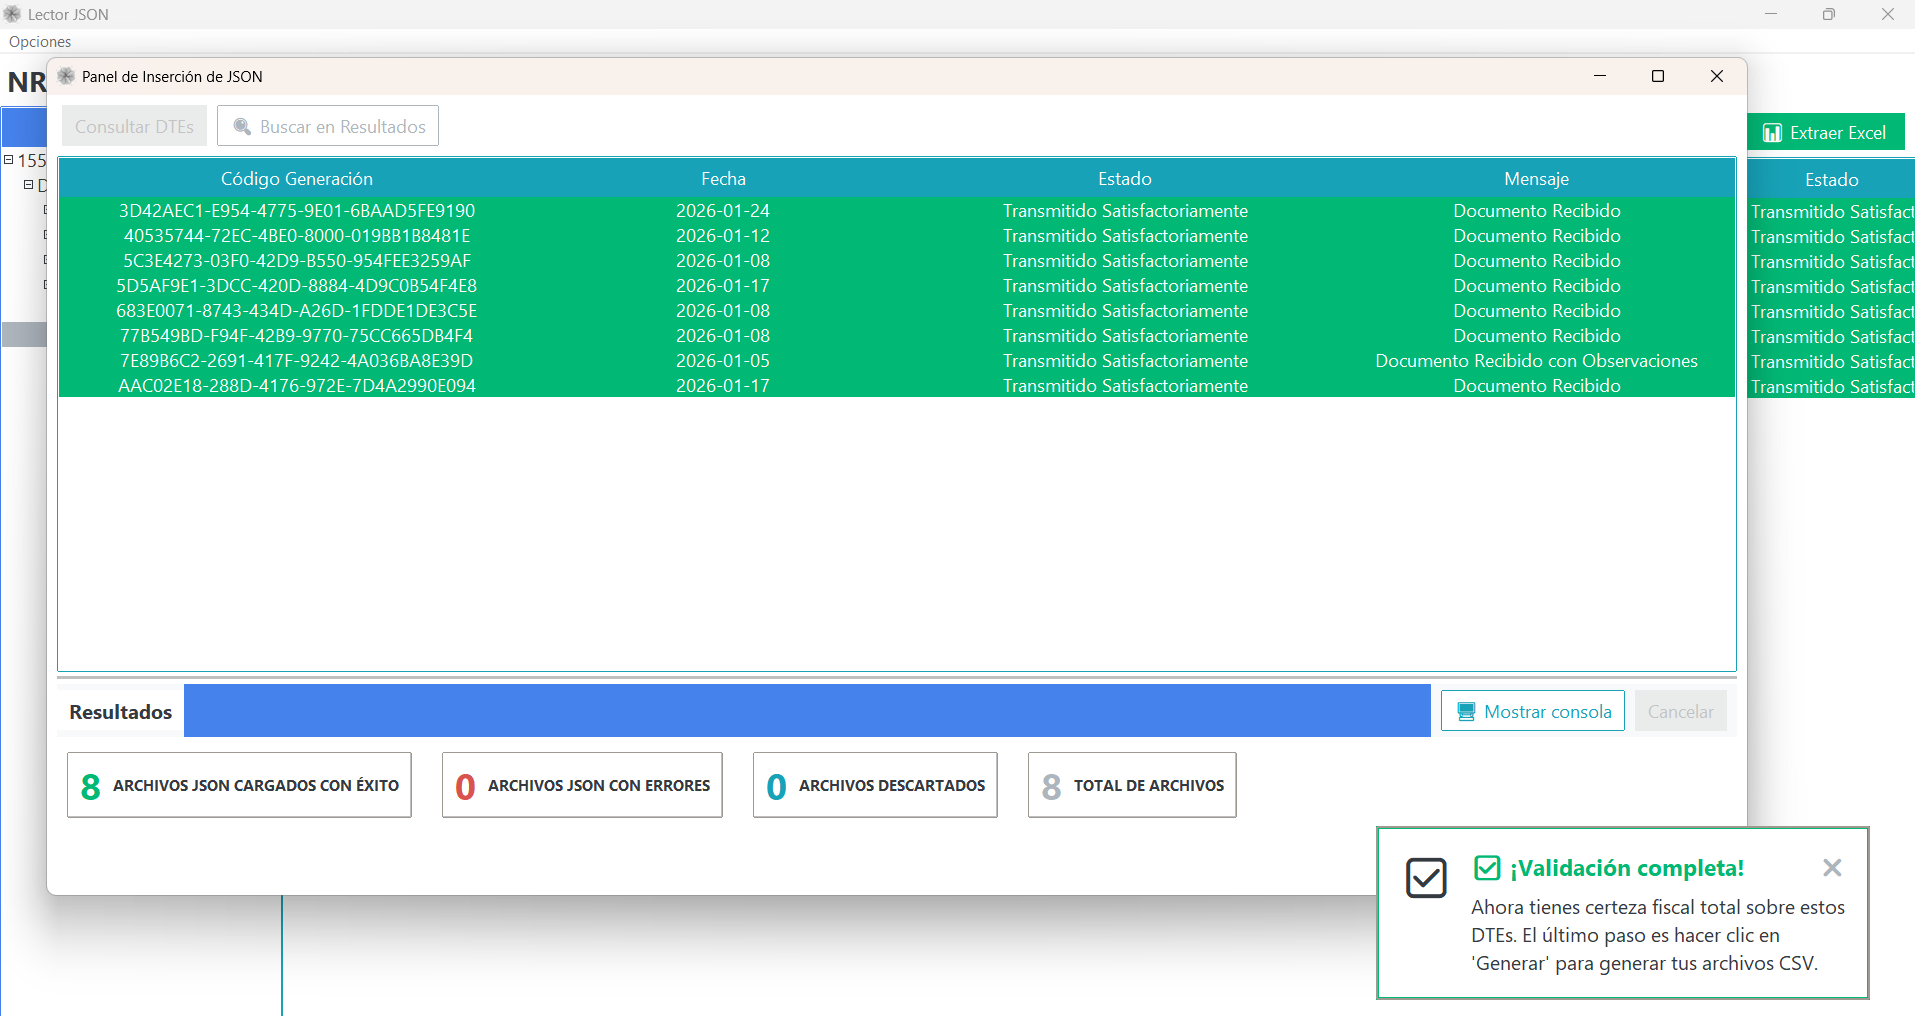
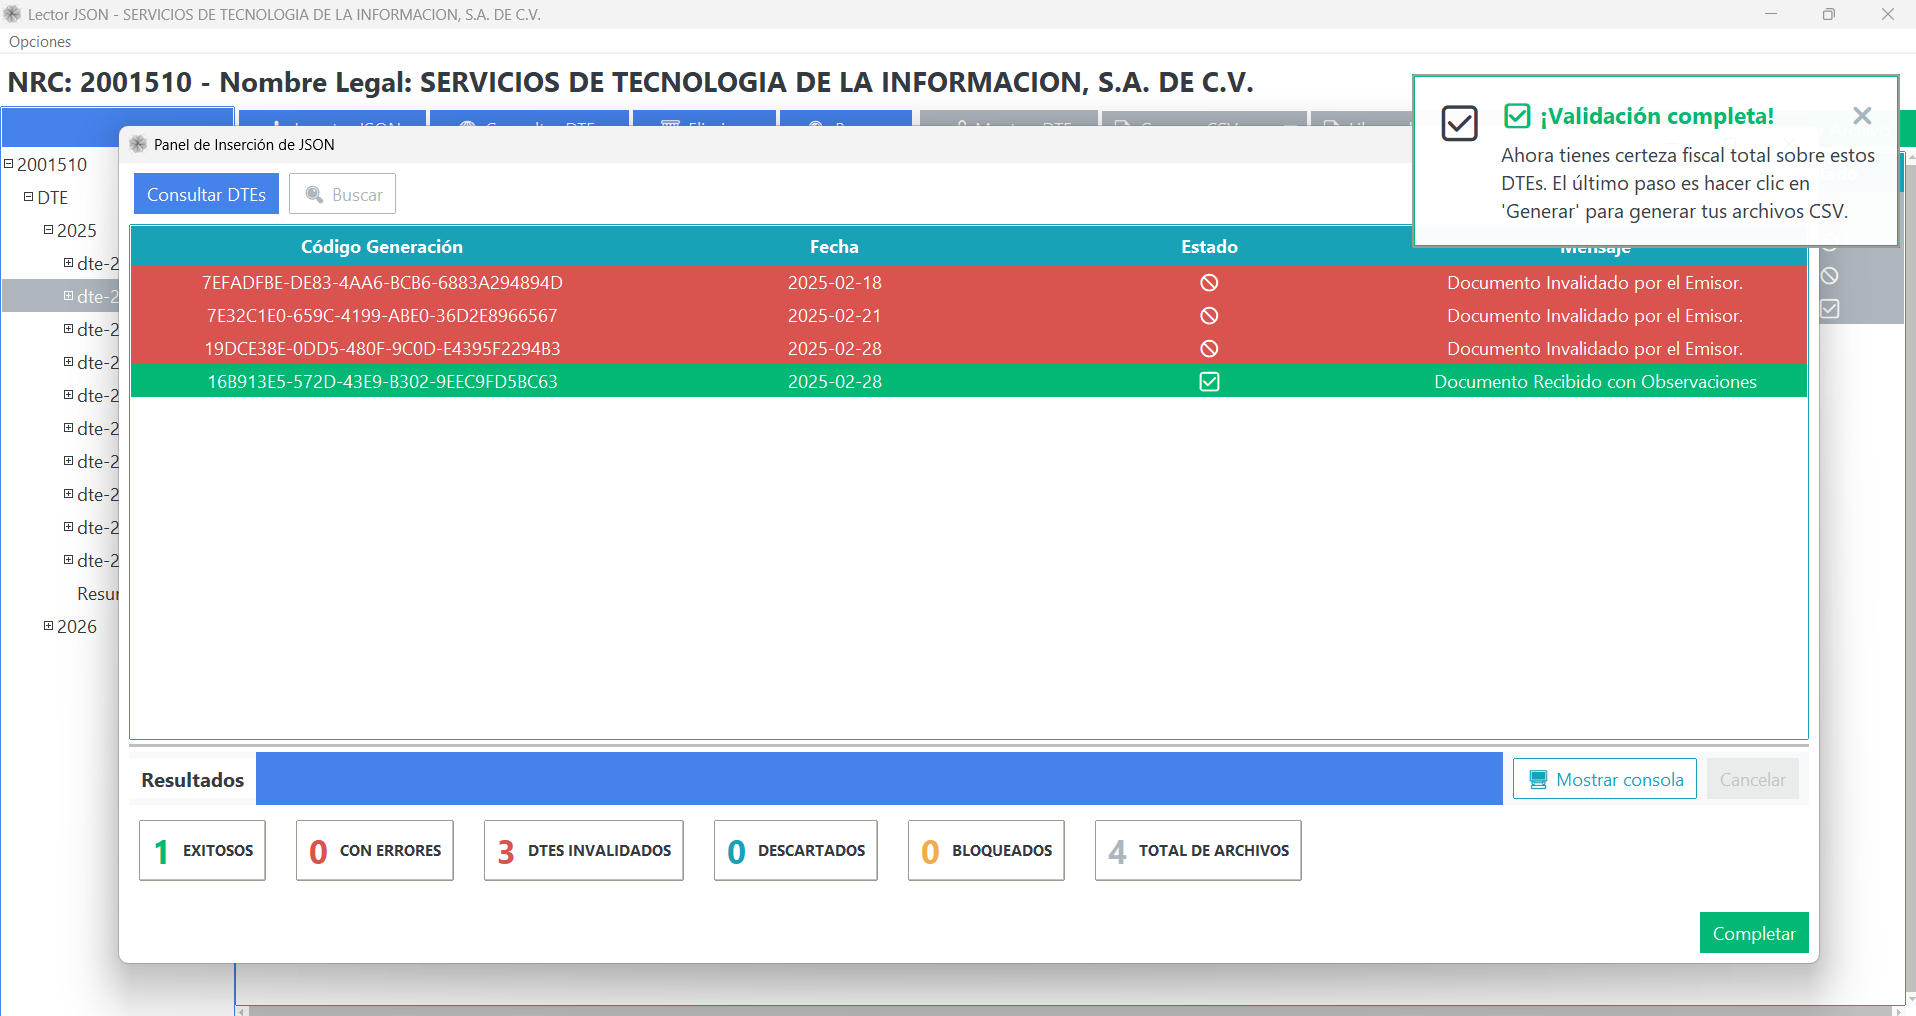
docs: actualización de flujos, guía de soporte con PIN y release notes

diff --git a/docs/novedades/release-notes.md b/docs/novedades/release-notes.md
@@ -15,6 +15,89 @@ En esta página se registran los cambios funcionales, mejoras operativas y nueva
 - **Acciones recomendadas:**
 -->
 
+### **Versión 1.1.4** - 2026-10-05
+
+- **Nuevo:**
+  - **Mover Compras Masivo en Menú de Selección Múltiple**: Posibilidad de seleccionar uno o múltiples DTEs de compras (Comprobante de Crédito Fiscal) y trasladarlos a otro periodo fiscal dentro de la ventana legal de 3 meses permitida por el Código Tributario de El Salvador para deducir compras.
+  - **Control de Ventana Única por Empresa**: Prevención de duplicación de ventanas de una misma empresa; al intentar abrir una empresa que ya está en uso, el sistema enfoca y trae al frente la ventana activa existente.
+  - **Protección contra Eliminación Accidental**: Bloqueo preventivo que impide eliminar una empresa si tiene ventanas abiertas o tareas activas en ejecución.
+
+- **Mejorado:**
+  - **Gestión de Errores en Traslados**: Notificación detallada indicando la cantidad de DTEs trasladados exitosamente y advertencias cuando el periodo fiscal de destino se encuentra bloqueado.
+  - **Validación de Selección Múltiple**: Guardas de seguridad al ejecutar acciones de eliminación con múltiples registros seleccionados en tablas.
+
+- **Corregido:**
+  - Corrección en la persistencia y actualización del listado de DTEs pendientes con eventos de retorno.
+  - Ajuste en la sincronización de etiquetas tras consultas individuales o masivas de DTEs.
+
+- **Impacto Operativo:**
+  - Flexibilidad contable para diferir compras de Crédito Fiscal a periodos fiscales posteriores dentro del plazo legalmente autorizado.
+  - Mayor seguridad operativa al evitar colisiones e inconsistencias de datos por apertura duplicada de ventanas.
+
+---
+
+### **Versión 1.1.3** - 2026-10-02
+
+- **Nuevo:**
+  - **Soporte Avanzado de Factura de Exportación (FEXE 11)**: Tratamiento y categorización inteligente de facturas de exportación en importaciones e internaciones, con actualización del catálogo de países para compatibilidad con códigos de versiones anteriores.
+  - **Ventana de Progreso y Bloqueo Dinámico de Interfaz**: Incorporación de indicador de progreso visual que desactiva temporalmente las acciones durante procesos asíncronos para evitar ejecuciones accidentales.
+  - **Restablecer Tamaño de Columnas**: Opción en el menú contextual de tablas para restaurar instantáneamente el ancho predeterminado de las columnas tras modificaciones manuales.
+
+- **Mejorado:**
+  - **Maquetación Continua en PDF**: Optimización de saltos de página y diseño continuo en PDF para Facturas de Exportación extensas, evitando resúmenes o firmas huérfanas al final del documento.
+  - **Prioridad de Columnas Críticas**: Optimización del ancho y visibilidad preferente para el número de control y código de generación en las tablas.
+
+- **Corregido:**
+  - Corrección en la asignación de campos para tributos e impuestos en DTEs.
+  - Prevención de desbordamientos visuales en diálogos informativos al utilizar fuentes de gran tamaño.
+
+- **Impacto Operativo:**
+  - Conciliación y registro confiable de operaciones de exportación bajo la normativa tributaria vigente.
+  - Experiencia visual estable y mayor control sobre las vistas de datos en tablas extensas.
+
+---
+
+### **Versión 1.1.2** - 2026-09-16
+
+- **Nuevo:**
+  - **Desglose Independiente de NRC y NIT**: Separación explícita de los campos de NRC y NIT en columnas dedicadas tanto en la tabla visual como en las exportaciones a Excel, sustituyendo la columna única anterior de identificación.
+  - **Almacenamiento Local Seguro**: Mecanismo de guardado con archivos temporales y protección ante cortes de energía o cierres imprevistos, previniendo la corrupción de los registros locales.
+
+- **Mejorado:**
+  - **Persistencia de Metadatos de Anexos**: Inicialización y resguardo de datos auxiliares para declaraciones tributarias.
+
+- **Corregido:**
+  - Corrección de anomalías causadas por caracteres nulos o formatos no válidos en archivos JSON importados.
+
+- **Impacto Operativo:**
+  - Identificación inmediata de contribuyentes y simplificación en cruces contables gracias al desglose individual de NRC y NIT.
+  - Máxima fiabilidad en el almacenamiento local de DTEs y registros fiscales.
+
+---
+
+### **Versión 1.1.1** - 2026-09-09
+
+- **Nuevo:**
+  - **Protección y Bloqueo de Periodos Fiscales**: Restricción de acciones modificadoras (inserción, consulta o eliminación) en periodos fiscales cerrados, junto con un diálogo de confirmación interactiva para autorizar su desbloqueo.
+  - **Consulta Inteligente en el Servicio de Hacienda**: Descarte automático en consultas masivas de DTEs que ya fueron validados previamente o que cuentan con evento de invalidación, optimizando el tiempo de respuesta.
+  - **Consulta Selectiva de DTEs**: Posibilidad de seleccionar varios DTEs y consultar su estado en el Ministerio de Hacienda directamente desde el menú contextual.
+  - **Apertura Directa por Doble Clic**: Doble clic sobre cualquier fila de la tabla para visualizar el DTE en modo PDF por defecto.
+  - **Descarga Directa desde Menú Contextual**: Acción para descargar y ubicar el archivo del DTE seleccionado en el equipo.
+
+- **Mejorado:**
+  - **Escalabilidad Visual y Fuentes Adaptativas**: Ajuste dinámico de diálogos, tablas y botones para tamaños de letra grandes (hasta 20 puntos) sin truncamiento de información.
+  - **Diseño de Libros de IVA en Excel**: Formato y anchos de columna adaptados para evitar saltos del código de generación, con totalizadores dinámicos optimizados.
+  - **Independencia del Entorno**: Estandarización de textos y mensajes operativos con independencia del idioma o configuración regional del sistema operativo.
+  - **Compatibilidad con macOS**: Optimización en la navegación entre periodos fiscales y centrado geométrico de diálogos modales.
+
+- **Corregido:**
+  - Corrección en la idempotencia del estado de bloqueo de periodo frente a consultas de estado.
+  - Prevención de excepciones en tablas al interactuar con filas deseleccionadas o selecciones vacías.
+
+- **Impacto Operativo:**
+  - Blindaje de la información contable contra modificaciones accidentales en periodos ya declarados.
+  - Consultas tributarias ágiles y eficientes sin saturar el servicio de consulta del Ministerio de Hacienda.
+
 ---
 
 ### **Versión 1.1.0.0**

diff --git a/docs/flujos/lector-json.md b/docs/flujos/lector-json.md
@@ -22,6 +22,23 @@ El panel izquierdo organiza automáticamente tus documentos por **Año**, **Mes*
 
 ![Separación por año, mes y categorías](../assets/img/flujos/lector-json-01-separacion-anio-mes-categorias.png "Navegación por año, mes y categorías"){ align=center }
 
+#### Protección y Bloqueo de Periodos Fiscales
+PyConta permite proteger los periodos fiscales que ya han sido declarados o cerrados contablemente para prevenir modificaciones accidentales:
+
+- **Indicador Visual de Bloqueo**: Los periodos protegidos se identifican en el árbol lateral con el icono de un candado cerrado, indicando que sus registros se encuentran blindados.
+- **Restricción de Acciones Modificadoras**: En un periodo bloqueado no se permite insertar nuevos DTEs, eliminar registros existentes ni realizar consultas que alteren el estado tributario de los documentos.
+- **Desbloqueo Supervisado**: Si necesitas realizar un ajuste justificado, el sistema solicita una confirmación interactiva para advertirte del riesgo antes de liberar el periodo.
+
+=== "Periodos Bloqueados en el Árbol"
+    Visualización de los meses protegidos con candado en el panel lateral:
+
+    ![Periodos bloqueados en el panel lateral](../assets/img/flujos/lector-json-14-periodos-bloqueados.png "Identificación de periodos fiscales bloqueados en el panel lateral"){ align=center }
+
+=== "Advertencia de Bloqueo"
+    Mensaje preventivo desplegado ante cualquier intento de modificación sobre un periodo cerrado:
+
+    ![Advertencia de periodo bloqueado](../assets/img/flujos/periodo-bloqueado-advertencia.png "Advertencia de seguridad al intentar operar sobre un periodo fiscal bloqueado"){ align=center }
+
 ---
 
 ### 2. Visor Dual de DTEs (PDF y JSON)
@@ -40,17 +57,36 @@ PyConta ofrece una experiencia de visualización cómoda tanto para usuarios con
 
     ![Vista detallada en JSON](../assets/img/flujos/lector-json-06-vista-detallada-modo-json.png "Vista detallada en modo JSON"){ align=center }
 
+#### Desglose Independiente de NRC y NIT
+La tabla de visualización presenta en columnas separadas e independientes el **NRC** (Número de Registro de Contribuyente) y el **NIT** (o DUI en personas naturales), simplificando el cotejo fiscal y agilizando la conciliación frente a los reportes de proveedores y clientes:
+
+![Columnas separadas de NRC y NIT](../assets/img/flujos/lector-json-columnas-nrc-nit.png "Desglose independiente de columnas NRC y NIT en la tabla de DTEs"){ align=center }
+
 ---
 
 ### 3. Menú Contextual (Clic Derecho) y Acciones Rápidas
 Al hacer clic derecho sobre una o varias filas seleccionadas en la tabla, accedes a un menú con herramientas especializadas:
 
-- **Consultar DTE**: Valida en tiempo real el estado del DTE con el servicio de consulta del Ministerio de Hacienda.
+- **Consultar DTE / Consultar DTEs (seleccionados)**: Valida en tiempo real el estado de los documentos ante el servicio de consulta del Ministerio de Hacienda.
 - **Copiar Datos Fiscales**: Copia rápidamente el Código de Generación, Número de Control, Sello de Recepción o NIT del proveedor al portapapeles.
-- **Descargar / Guardar Archivo**: Guarda una copia local del archivo original en la carpeta que elijas.
-- **Mover DTE**: Reclasifica el DTE a otro mes o año (con validación para evitar alterar periodos cerrados).
+- **Descargar Archivo**: Guarda una copia del archivo original del DTE en la ubicación que elijas de tu equipo.
+- **Restablecer Columnas**: Si ajustaste manualmente el ancho de las columnas de la tabla, esta opción restaura instantáneamente la distribución y anchos predeterminados:
+
+![Restablecer tamaño de columnas](../assets/img/flujos/menu-contextual-restablecer-columnas.png "Opción para restablecer columnas en el menú contextual"){ align=center }
+
+- **Mover DTE / Mover DTEs (seleccionados)**: Permite reasignar compras a otro periodo fiscal.
 
 ![Consulta de DTE y acciones](../assets/img/flujos/lector-json-03-consultar-dte-y-acciones.png "Menú de acciones para consultar DTE"){ align=center }
+
+#### Traslado de Compras a Otro Periodo Fiscal
+Esta función está disponible exclusivamente para la categoría de **Compras** (Comprobante de Crédito Fiscal) y responde a la normativa tributaria de El Salvador (Art. 65 del Código Tributario), que faculta a los contribuyentes a deducir el IVA Crédito Fiscal dentro de los **3 meses** siguientes a la fecha de emisión del documento:
+
+1. **Selección Individual o Múltiple**: Puedes seleccionar un solo DTE o utilizar ++shift++ o ++ctrl++ para marcar múltiples compras simultáneamente.
+2. **Cálculo de Periodos Válidos**: Al elegir `Mover DTE`, el sistema calcula automáticamente la ventana legal de 3 meses permitida a partir de la fecha de emisión. En traslados masivos, PyConta calcula el rango común legalmente aplicable a todos los documentos seleccionados.
+3. **Selección de Destino**: Elige el Año y Mes de destino en el diálogo modal. El sistema valida que el periodo seleccionado no sea el periodo actual y que el periodo de destino no se encuentre bloqueado.
+4. **Confirmación del Traslado**: Al confirmar, el sistema traslada los DTEs al periodo seleccionado y los retira de la vista del periodo actual, notificando el resultado exitoso en pantalla.
+
+![Mover compras a otro periodo](../assets/img/flujos/mover-compras-periodo-modal.png "Ventana modal para reasignar compras a otro periodo fiscal"){ align=center }
 
 ---
 

diff --git a/docs/suscripcion-y-soporte/solicitar-soporte-con-pin.md b/docs/suscripcion-y-soporte/solicitar-soporte-con-pin.md
@@ -1,16 +1,63 @@
-# Soporte con PIN
+---
+description: Guía detallada para solicitar soporte técnico oficial mediante la generación de PIN en el portal de membresía de ContaPortable.
+---
 
-## Objetivo
-Solicitar soporte tecnico premium siguiendo el flujo oficial.
+# **Soporte con PIN**
 
-## Requisitos para soporte
-- Usuario registrado con correo de compra.
-- PIN de soporte generado.
-- Captura de pantalla y descripcion del error.
+El servicio de soporte técnico para usuarios con membresía activa se gestiona de forma centralizada a través del portal de clientes de **ContaPortable**. Este mecanismo garantiza una atención ordenada y prioritaria mediante la emisión de un **PIN de soporte técnico** único para cada consulta o incidencia.
 
-## Flujo de atencion
-1. Reporte inicial con evidencia.
-2. Guia de accion enviada por soporte.
-3. Sesion remota (Zoom, Google Meet o AnyDesk) si es necesario.
+---
 
-Correo de contacto: soporte@contaportable.com
+## **Requisitos Previos**
+
+Para poder generar una solicitud de soporte técnico mediante PIN, asegúrate de cumplir con los siguientes requisitos:
+
+- **Membresía activa:** Contar con una suscripción o membresía vigente vinculada a tu cuenta o correo de compra.
+- **Acceso al portal:** Disponer de credenciales activas para iniciar sesión en la plataforma VIP.
+- **Detalle de la incidencia:** Tener claro el sistema con problema, asunto, descripción puntual del error y capturas de pantalla o evidencias preparadas.
+- **Herramienta de conexión remota:** Si tu caso requiere intervención directa de un técnico, ten instalado previamente [AnyDesk](https://anydesk.com/es/downloads).
+
+---
+
+## **Horarios de Atención**
+
+El equipo de soporte técnico brinda atención en los siguientes horarios:
+
+- **Lunes a viernes:** 8:00 – 18:00
+- **Sábados:** 8:00 – 12:00
+
+---
+
+## **Acceso al Centro de Soporte Técnico**
+
+Para iniciar tu solicitud, sigue estos pasos:
+
+1. Ingresa a la plataforma e inicia sesión con tu usuario y contraseña:
+   [Membresía | Home](https://www.contaportable.com/vip/public/home)
+2. En la barra de navegación superior, haz clic en la opción **Soporte Técnico** o accede directamente a:
+   [Membresía | Soporte Técnico](https://www.contaportable.com/vip/public/membresia/soporteTecnico)
+3. Sigue las indicaciones del asistente en la página para completar el formulario, generar tu PIN y remitir la solicitud por el canal de tu preferencia (WhatsApp o correo electrónico).
+
+![Centro de soporte técnico](../assets/img/soporte/soporte-con-pin-01-centro-soporte.png "Centro de Soporte Técnico en el portal de ContaPortable"){ align=center }
+
+---
+
+## **Historial y Seguimiento de Casos**
+
+En la parte inferior de la página de soporte dispones de la sección **Últimos casos de soporte**, donde puedes consultar el estado y trazabilidad de tus tickets:
+
+| Campo | Descripción |
+| :--- | :--- |
+| **Fecha de creación** | Momento exacto en que se generó la solicitud en el portal. |
+| **Fecha de expiración** | Límite de vigencia asignado al PIN de soporte generado. |
+| **Tipo de sistema** | Sistema o producto asociado al ticket. |
+| **PIN** | Código numérico asignado a tu caso. |
+| **Caso de soporte** | Identificador o resumen del requerimiento. |
+| **Estado** | Estado actual de atención (Pendiente, En proceso, Finalizado). |
+| **Fecha de evento** | Registro de última actualización o atención brindada. |
+| **Calificación** | Evaluación del servicio recibido tras concluir la asistencia. |
+
+---
+
+!!! info "Canal de Contacto Alternativo"
+    Si presentas inconvenientes para iniciar sesión en el portal o acceder a tu cuenta VIP, puedes contactar al equipo de soporte a través del correo oficial: **soporte@contaportable.com**.

diff --git a/docs/flujos/consulta-hacienda.md b/docs/flujos/consulta-hacienda.md
@@ -37,7 +37,7 @@ Permite validar todos los DTEs de un periodo (Compras o Ventas) en un solo proce
 
 1. Selecciona la categoría del periodo en el árbol lateral.
 2. Presiona el botón de **Consulta Masiva en Hacienda**.
-3. **Optimización Inteligente**: El sistema detecta y omite automáticamente los documentos que ya fueron validados previamente, consultando únicamente los DTEs nuevos o pendientes. Esto agiliza el proceso y optimiza el uso de la conexión.
+3. **Optimización Inteligente y Descarte Preventivo**: El sistema detecta y omite automáticamente los documentos que ya cuentan con validación oficial previa, así como aquellos que registran eventos oficiales de invalidación o eventos de retorno. Esto evita reconsultas innecesarias, acelera significativamente el tiempo de procesamiento y previene la saturación del servicio de consulta del Ministerio de Hacienda.
 
 ![Consulta masiva - inicio](../assets/img/flujos/consulta-hacienda-02-consulta-masiva-inicio.png "Ejecución de consulta masiva por categoría"){ align=center }
 
@@ -48,7 +48,17 @@ Al finalizar el proceso, se presenta un panel detallado con el resumen de estado
 ---
 
 ### 3. Consulta de Filas Seleccionadas
-Si deseas consultar únicamente un subconjunto de DTEs, marca las filas correspondientes en la tabla, haz clic derecho y selecciona consultar los elementos seleccionados.
+Si necesitas verificar el estado tributario de un grupo específico de documentos sin procesar toda la categoría:
+
+1. Marca las filas deseadas en la tabla utilizando ++shift++ o ++ctrl++ para selección continua o alterna.
+2. Haz clic derecho sobre cualquiera de las filas marcadas.
+3. Selecciona la opción **Consultar DTEs (seleccionados)**.
+4. El sistema procesará exclusivamente los documentos indicados, actualizando su sello y estado en pantalla.
+
+![Consulta de filas seleccionadas](../assets/img/flujos/consulta-hacienda-seleccionados.png "Opción para consultar DTEs seleccionados en el menú contextual"){ align=center }
+
+!!! note "Protección en Periodos Bloqueados"
+    Si el periodo fiscal consultado se encuentra bloqueado (cerrado contablemente), el sistema restringe la ejecución de consultas que modifiquen la metadata de los documentos para preservar la integridad histórica. Para consultar documentos en un periodo protegido, este debe ser desbloqueado previamente con confirmación interactiva.
 
 ---
 

diff --git a/docs/informacion-importante/buenas-practicas-operativas.md b/docs/informacion-importante/buenas-practicas-operativas.md
@@ -62,8 +62,10 @@ Evita mover, renombrar o eliminar manualmente los archivos dentro de las carpeta
 ## 6. Primera Descarga en Planes Premium
 Al activar una cuenta en un Plan Premium, dispones de una descarga inicial sugerida con un rango amplio (por ejemplo, 1 año) para construir tu historial base:
 
-- Planifica la primera descarga para capturar todo el periodo histórico que necesites conciliar.
-- Tras la primera sincronización, el sistema recordará el historial y sugerirá automáticamente los periodos pendientes en las descargas sucesivas.
+- **Sin Consumo de Límites Mensuales**: Esta primera descarga inicial histórica no resta ni consume de tus límites mensuales contratados.
+- **Inicio del Conteo Mensual**: El consumo de tus límites mensuales comenzará a contabilizarse hasta la siguiente descarga efectiva en la que se encuentren nuevos DTEs.
+- **Captura Integral del Historial**: Aprovecha esta primera ejecución para abarcar todo el periodo histórico que necesites conciliar y auditar.
+- **Sugerencia Automática de Periodos**: Tras completar la primera sincronización, el sistema registrará el historial procesado y sugerirá de forma automática únicamente los periodos pendientes en las descargas sucesivas.
 
 ---
 

diff --git a/docs/primeros-pasos/registro-empresa.md b/docs/primeros-pasos/registro-empresa.md
@@ -119,6 +119,20 @@ Selecciona el tema visual de tu preferencia para adaptar los colores de la inter
 
 ---
 
+## **Control y Protección de Empresas**
+
+### Control de Ventana Única por Empresa
+Para evitar inconsistencias o bloqueos en la base de datos local por accesos simultáneos, PyConta aplica un control de instancia única por empresa:
+- Si una empresa ya se encuentra abierta en el sistema y vuelves a seleccionarla en la lista principal, el sistema no abrirá una segunda ventana duplicada.
+- En su lugar, enfocará y traerá automáticamente al frente la ventana de trabajo que ya está activa.
+
+### Protección contra Eliminación Accidental
+Para preservar la integridad de los datos contables:
+- No se permite eliminar una empresa del sistema mientras tenga ventanas abiertas o procesos en curso (como descargas de correo o sincronizaciones activas).
+- Para poder eliminar una empresa, debes cerrar previamente todas sus ventanas de trabajo asociadas.
+
+---
+
 ## **Verificación**
 - La empresa aparece en la lista principal con su estado activo.
 - Los datos fiscales (NIT y NRC) coinciden con los DTEs a procesar.

diff --git a/docs/flujos/visor-dte.md b/docs/flujos/visor-dte.md
@@ -15,8 +15,12 @@ Durante la [Descarga Desde Correo](descarga-desde-correo.md), la [Sincronizació
 
 ### Opciones del Menú Contextual:
 - **Abrir Archivo**: Abre la ventana del **Visor de DTE** para examinar el contenido JSON formateado del documento.
+- **Descargar Archivo**: Descarga y guarda una copia local del archivo original del DTE en la carpeta seleccionada de tu equipo.
 - **Copiar Nombre de Archivo**: Copia el nombre del archivo seleccionado directamente al portapapeles.
 - **Copiar Estado**: Copia el estado de procesamiento del documento para facilitar auditorías o consultas de soporte.
+
+!!! tip "Apertura Rápida con Doble Clic"
+    En las tablas del sistema puedes hacer **doble clic** sobre cualquier fila para abrir de forma directa la vista previa gráfica en PDF del DTE, con la opción de alternar al visor JSON técnico en cualquier momento.
 
 ---
 
